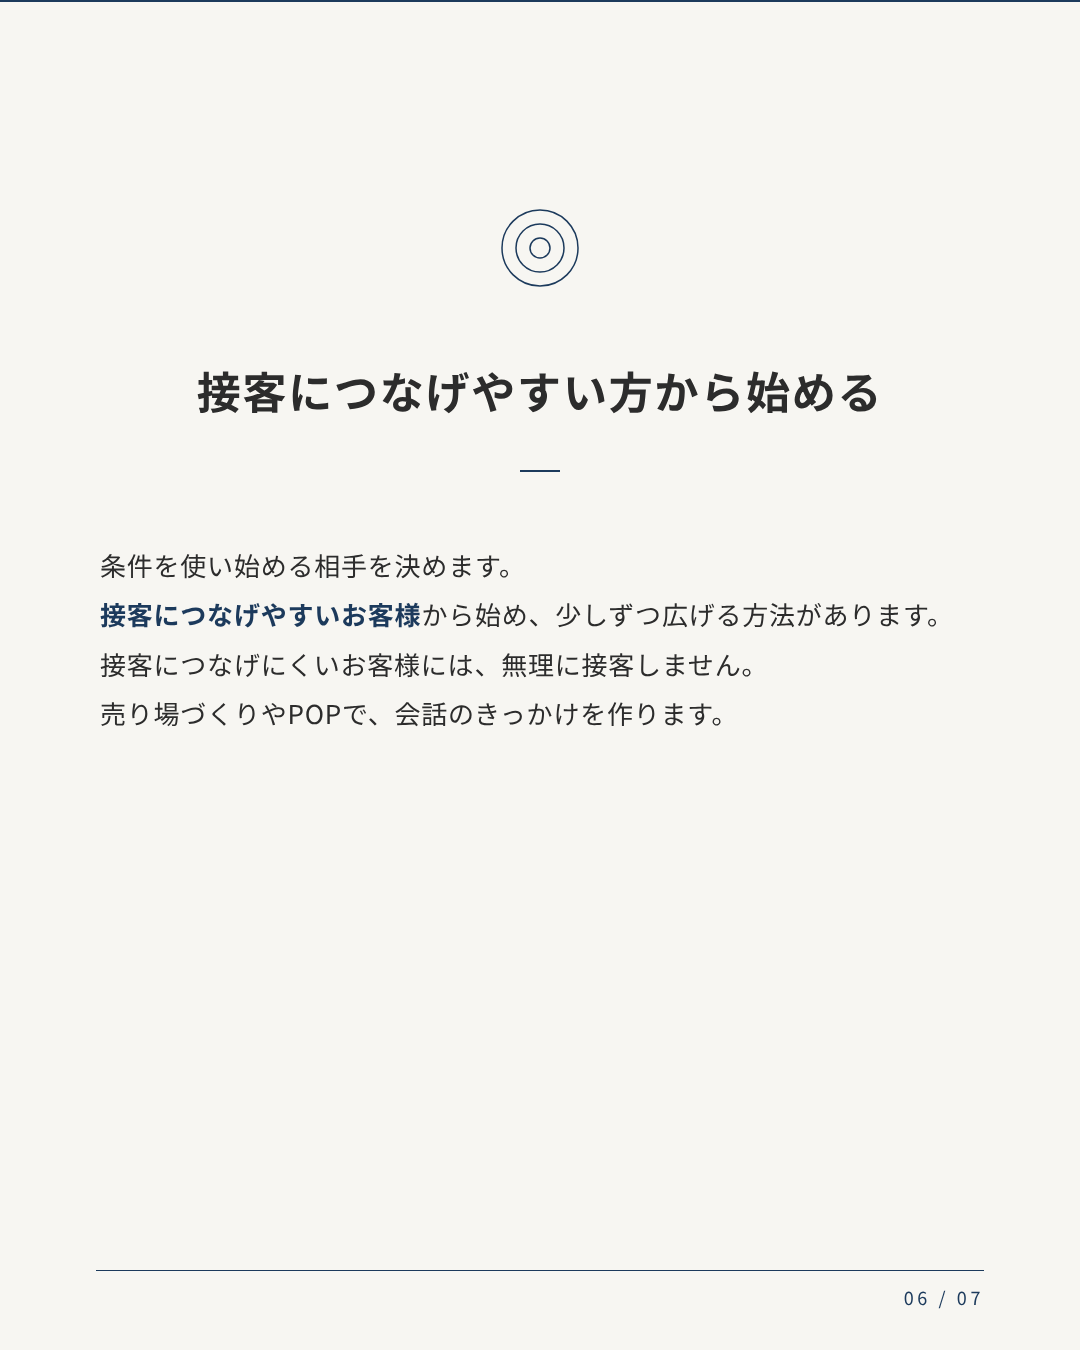
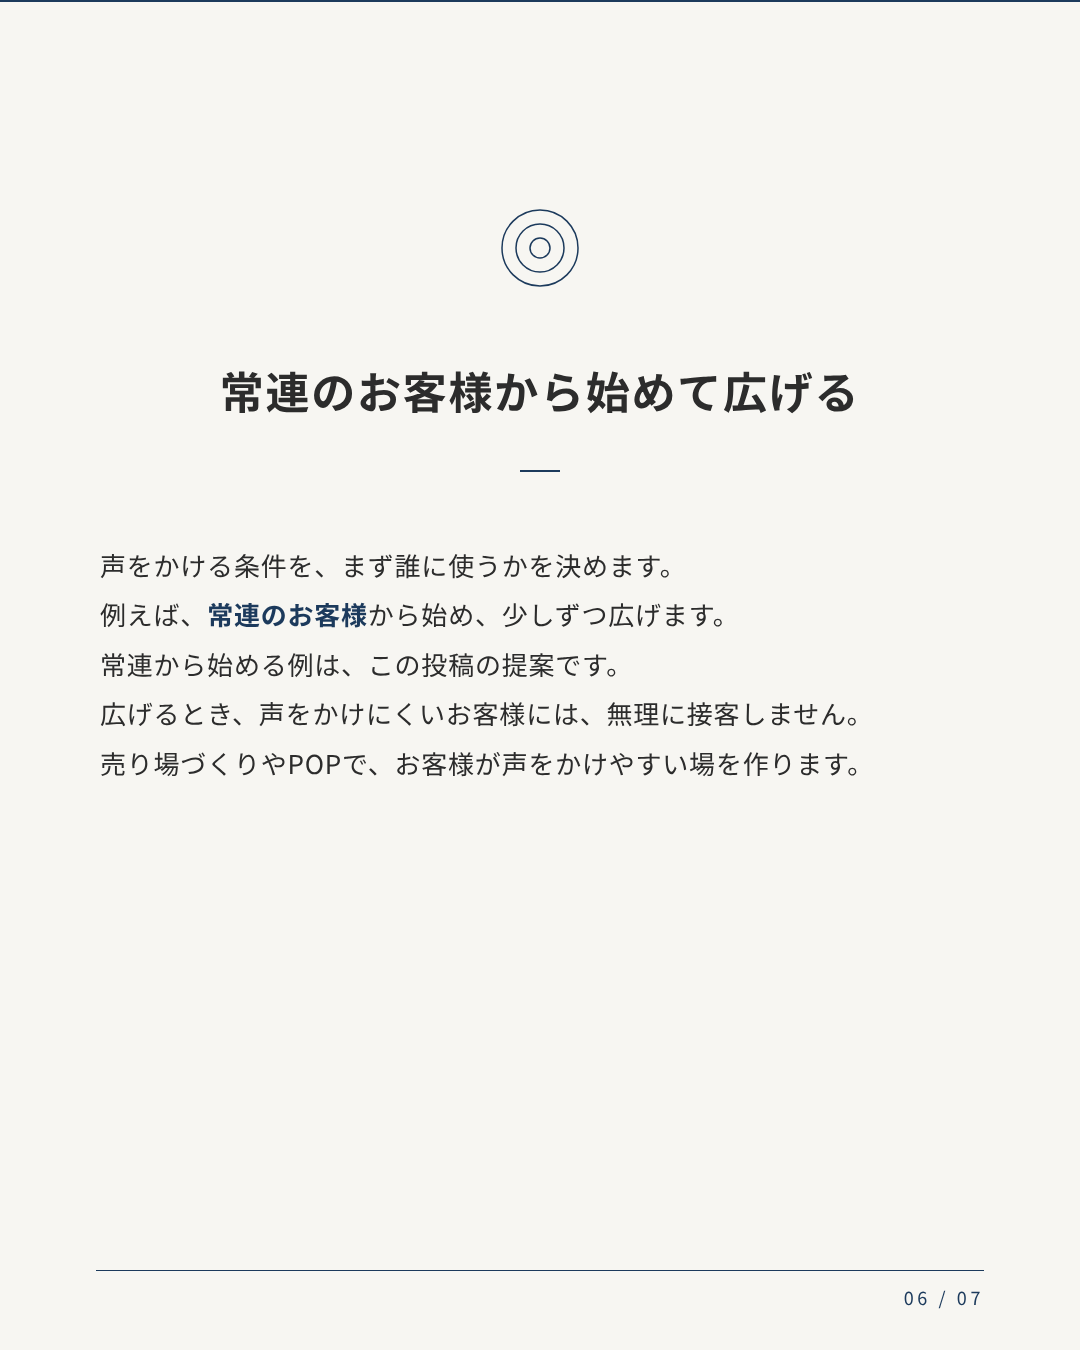
投稿の一覧を更新（11件）

Changed region(s): [[0.0917, 0.4044, 0.8556, 0.5911], [0.1833, 0.2489, 0.825, 0.3111]]

diff --git a/index.html b/index.html
@@ -23,7 +23,7 @@ pre { white-space: pre-wrap; font: inherit; line-height: 1.7; }
 </head>
 <body>
 <main>
-<h1>カルーセル投稿一覧</h1>
+<h1>カルーセル投稿一覧（完成）</h1>
 <p class="note">「7枚を保存」を押すと、保存の画面が開きます。iPhoneは「画像を保存」、Androidは保存先を選んでください。開かないときは、自動で1枚ずつダウンロードされます。</p>
 <article data-title="接客のあとのメモを声かけに活かす5つの手順" data-files="outputs/接客のあとのメモを声かけに活かす5つの手順/01.png|outputs/接客のあとのメモを声かけに活かす5つの手順/02.png|outputs/接客のあとのメモを声かけに活かす5つの手順/03.png|outputs/接客のあとのメモを声かけに活かす5つの手順/04.png|outputs/接客のあとのメモを声かけに活かす5つの手順/05.png|outputs/接客のあとのメモを声かけに活かす5つの手順/06.png|outputs/接客のあとのメモを声かけに活かす5つの手順/07.png">
 <h2>接客のあとのメモを声かけに活かす5つの手順</h2>
@@ -32,21 +32,23 @@ pre { white-space: pre-wrap; font: inherit; line-height: 1.7; }
 <button type="button" class="sub" onclick="copyCaption(this)">キャプションをコピー</button>
 <div class="status"></div>
 <details><summary>キャプションを見る</summary><pre>淡路島で店舗を営む方へ。
-お客様全員に接客するのは、難しいものです。そこで、接客のあとのメモを声かけに活かす5つの手順を整理しました。
+お客様全員に接客するのは、難しいものです。そこで、接客後のメモを声かけに活かす手順を整理しました。
 
-1. 気になった1組を入店から退店まで見る：全員は難しいので、1組に絞ります。見る点は、質問されたこと・見ていた商品・触れたもの・買おうとしたものです。
-2. 接客が終わってすぐメモする：エビングハウスの結果を参考に、その4点を接客後すぐに書きます。
-3. メモを見返して傾向を見る：メモがたまったら見返し、どうなったか、そしてなぜかを書き足します。
-4. 声をかける条件を前もって決める：条件を前もって決めます。例は私たちの提案です。
-5. 接客につなげやすい方から始める：接客につなげにくい方には、売り場づくりやPOPで会話のきっかけを作る方法があります。
+1. 気になった1組を来店から帰るまで見る：忘れない点は、質問されたこと・見ていた商品・触れたもの・買おうとしたものです。
+2. 接客が終わってすぐメモする：エビングハウスの結果を参考に、その4点を接客後すぐ書きます。
+3. メモを見返して傾向を見る：見返して、うまくいったか、その理由を書き足します。
+4. 声をかける条件を前もって決める：傾向から決めます。例は「メモで同じ商品が何度も出たら、その商品の前で声をかける」です。
+5. 常連のお客様から始めて広げる：例えば常連のお客様から始め、声をかけにくいお客様には、売り場づくりやPOPで、お客様が声をかけやすい場を作ります。
 
-接客後すぐのメモには心理学者エビングハウスの忘れ方の研究（音の並びを覚えた1人の結果）、声をかける条件には心理学者ゴルヴィツァーが研究をまとめた、前もって決める計画（実行意図）を紹介しています。どちらも接客を調べた研究ではなく、店での使い方は私たちの提案です。
+接客後すぐのメモには心理学者エビングハウスの忘れ方の研究（音の並びを覚えた1人の結果）、声をかける条件については、心理学者ゴルヴィツァーがまとめた「前もって決める計画」の研究を紹介しています。どちらも接客の研究ではなく、店での使い方はこの投稿の提案です。
 
-今日の一歩は、接客が終わってすぐ、メモを書くことです。
+今日の一歩は、気になった1組の接客後すぐ、メモを書くことです。
 保存して見返してください。メモの書き方や声をかける条件に迷ったら、DMでご相談ください。
 
 #淡路島 #店舗経営 #接客 #声かけ #心理学 #小規模店舗</pre></details>
 </article>
+<h1>審査前の旧投稿</h1>
+<p class="note">完成判定の基準ができる前に作った投稿です。文章の崩れが残っている可能性があります。投稿の前に、必ず目で確かめてください。</p>
 <article data-title="お客様の質問にすぐ答える5つの準備" data-files="outputs/お客様の質問にすぐ答える5つの準備/01.png|outputs/お客様の質問にすぐ答える5つの準備/02.png|outputs/お客様の質問にすぐ答える5つの準備/03.png|outputs/お客様の質問にすぐ答える5つの準備/04.png|outputs/お客様の質問にすぐ答える5つの準備/05.png|outputs/お客様の質問にすぐ答える5つの準備/06.png|outputs/お客様の質問にすぐ答える5つの準備/07.png">
 <h2>お客様の質問にすぐ答える5つの準備</h2>
 <div class="thumbs"><img src="outputs/お客様の質問にすぐ答える5つの準備/01.png" alt="1枚目" loading="lazy"><img src="outputs/お客様の質問にすぐ答える5つの準備/02.png" alt="2枚目" loading="lazy"><img src="outputs/お客様の質問にすぐ答える5つの準備/03.png" alt="3枚目" loading="lazy"><img src="outputs/お客様の質問にすぐ答える5つの準備/04.png" alt="4枚目" loading="lazy"><img src="outputs/お客様の質問にすぐ答える5つの準備/05.png" alt="5枚目" loading="lazy"><img src="outputs/お客様の質問にすぐ答える5つの準備/06.png" alt="6枚目" loading="lazy"><img src="outputs/お客様の質問にすぐ答える5つの準備/07.png" alt="7枚目" loading="lazy"></div>
